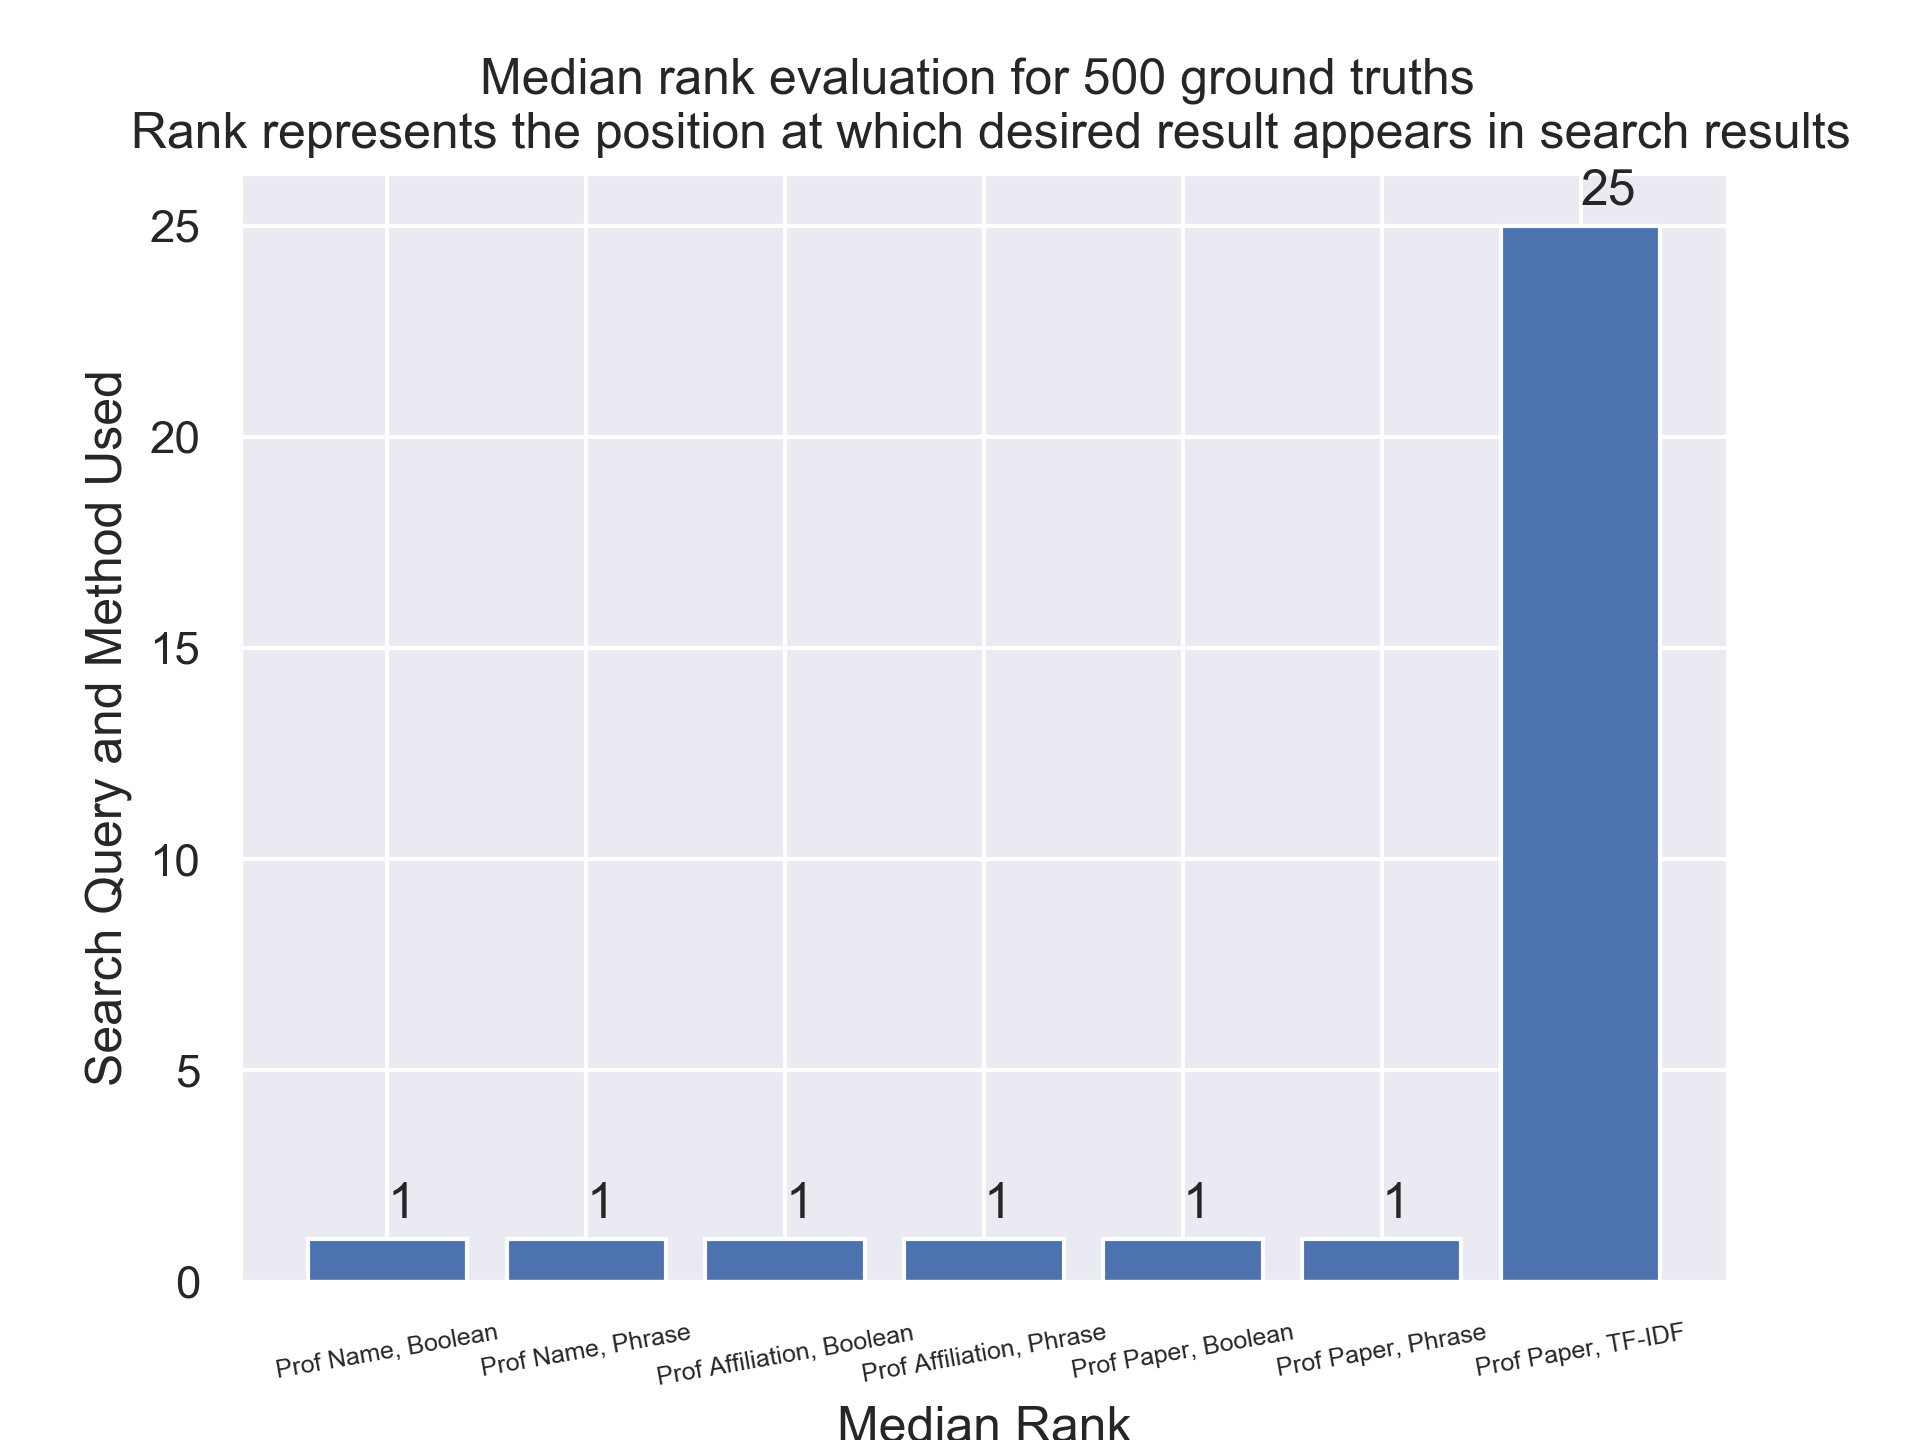
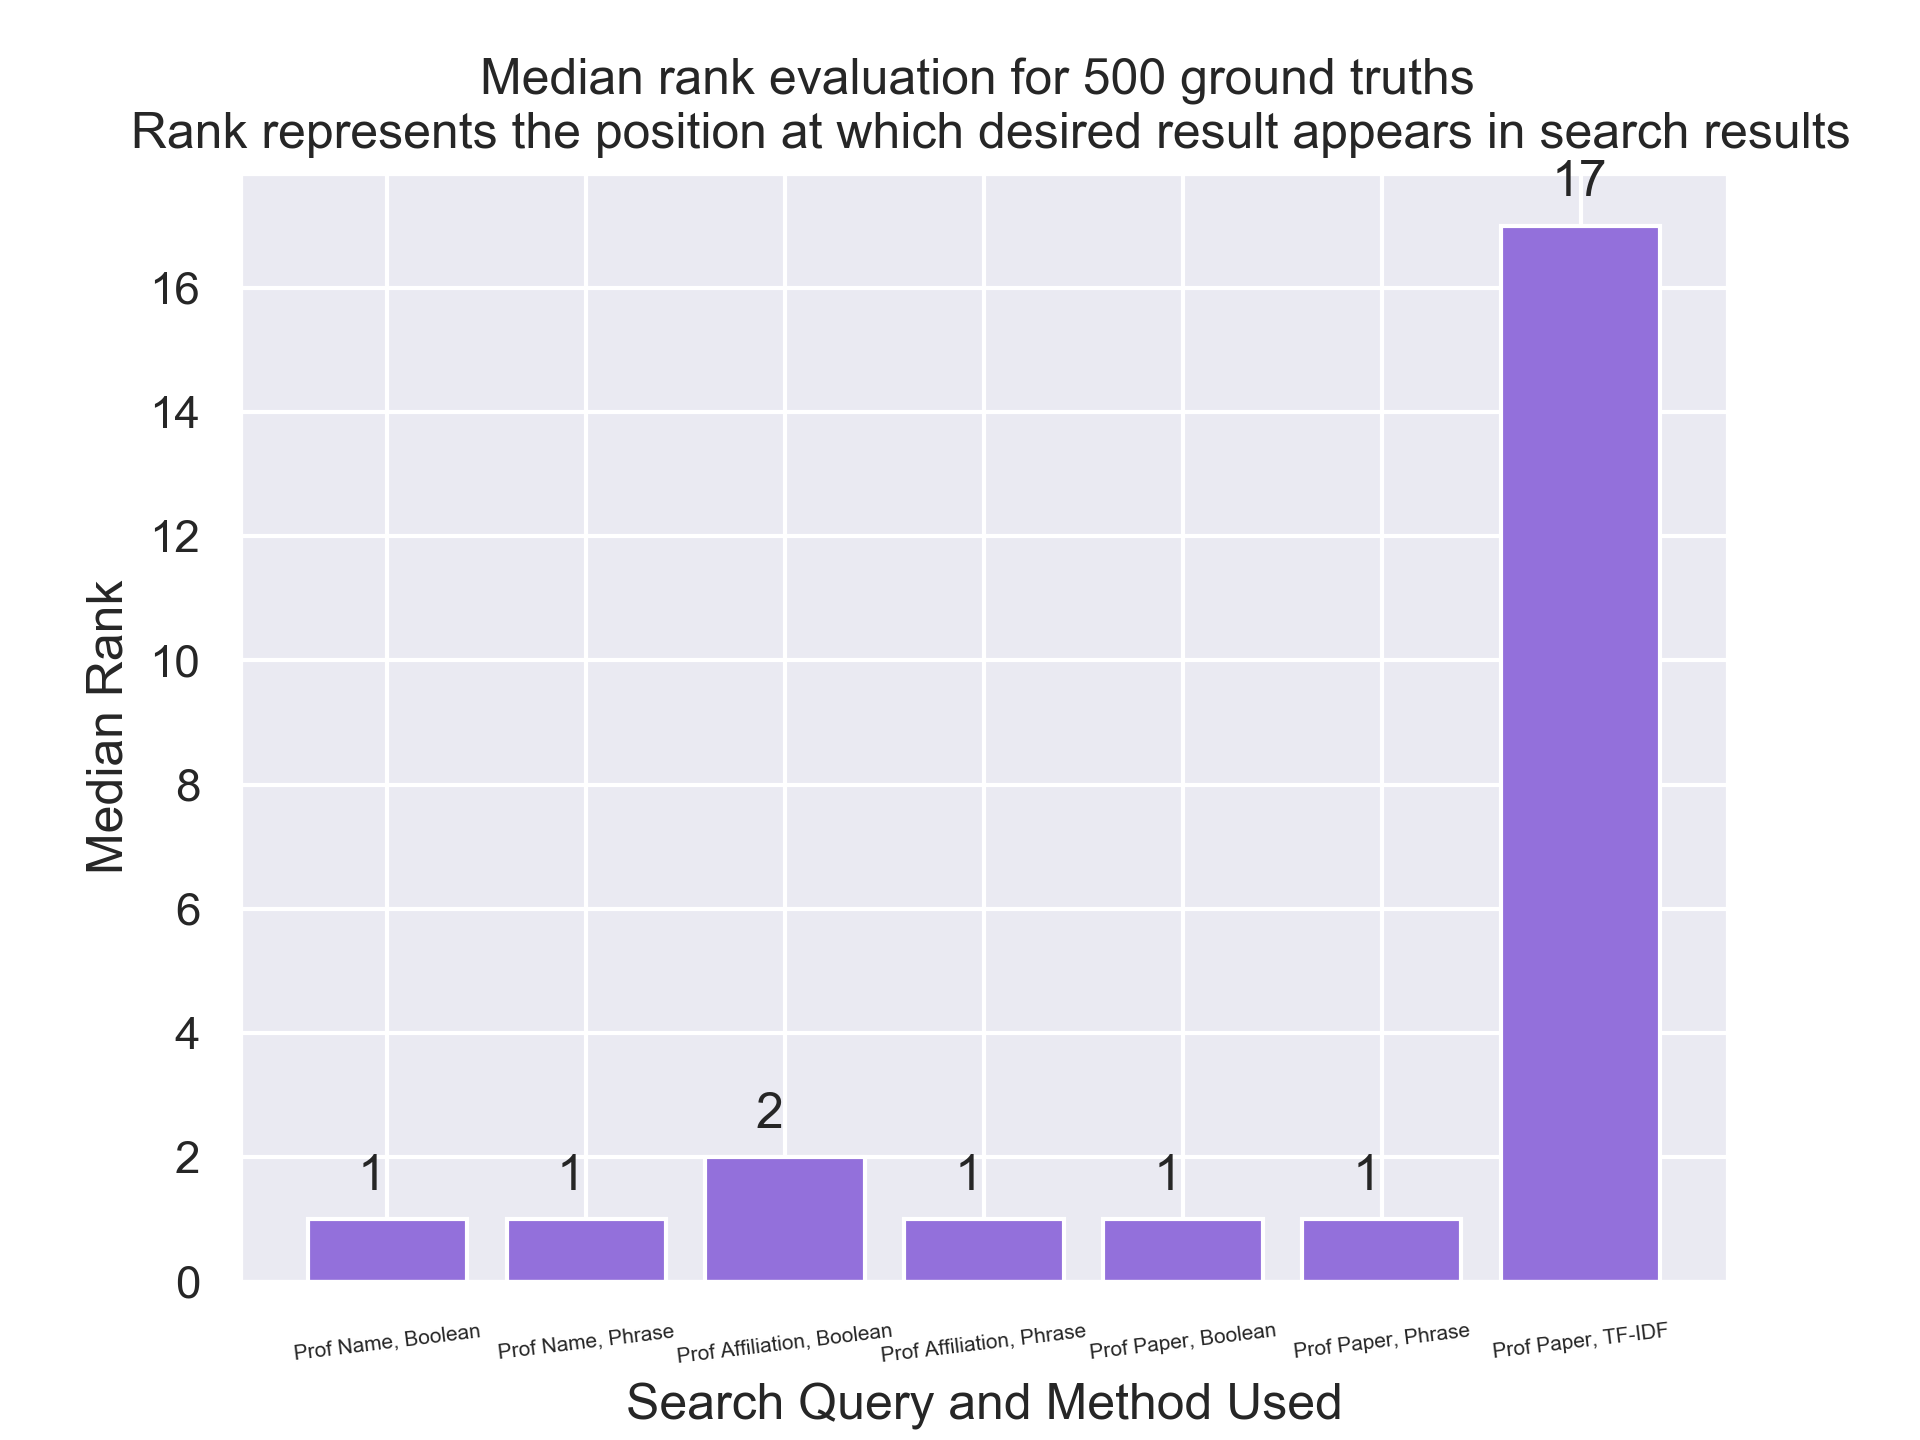
added evaluation results

diff --git a/web_server/templates/index.html b/web_server/templates/index.html
@@ -10,7 +10,7 @@
     <title>Search Engine</title>    
     <script src="https://cdn.jsdelivr.net/npm/chart.js"></script>   
   </head>
-  <body style="background-color: #F8F9FA;font-size:12pt;font-family: 'Open Sans', sans-serif;">
+  <body style="background-color: #EFF5FF;font-size:12pt;font-family: 'Open Sans', sans-serif;">
     <form class="form-inline" style="">
         <nav class="navbar fixed-top navbar-light bg-dark">        
             <div class="container" style="margin-top:7px;margin-bottom:7px;">
@@ -28,7 +28,7 @@
                                       </select>                                      
                                 </div>
                                 <div class="col-md-3" style="padding:0;">
-                                    <button type="submit" class="btn btn-primary" style="width:100%;border-radius:0px 10px 10px 0px;"> <i class="fa fa-search"></i> Search</button>
+                                    <button type="submit" class="btn btn-primary" style="background-color:#9370DB;width:100%;border-radius:0px 10px 10px 0px;"> <i class="fa fa-search"></i> Search</button>
                                 </div>
                             </div>                         
                     </div>                    

diff --git a/evaluation/evaluate.py b/evaluation/evaluate.py
@@ -41,6 +41,15 @@ recallrate['prof-paper-phrase-retrieval-recall-rate-10']  = 0
 recallrate['prof-paper-tf-idf-recall-rate-5']  = 0
 recallrate['prof-paper-tf-idf-recall-rate-10']  = 0
 
+avgquerytime = dict()
+avgquerytime['prof-name-boolean-retrieval'] = []
+avgquerytime['prof-affiliation-boolean-retrieval'] = []
+avgquerytime['prof-name-phrase-retrieval'] = []
+avgquerytime['prof-affiliation-phrase-retrieval'] = []
+avgquerytime['prof-paper-boolean-retrieval'] = []
+avgquerytime['prof-paper-phrase-retrieval'] = []
+avgquerytime['prof-paper-tf-idf'] = []
+
 file_count = 10
 data_files = [pd.read_csv('../data/professor_data-'+str(file_index)+'-cleaned.csv',header=None,encoding='utf8') for file_index in range(file_count) ]
 
@@ -54,6 +63,12 @@ def find_median(input_list):
         return input_list[0]
     else:
         return input_list[(N + 1)//2]
+
+def find_mean(input_list):
+    N = len(input_list)
+    if N==0:
+        return -1
+    return (sum(input_list)/N)
 
 def generate_random_professor():
     list_of_prof_count_per_file = list(pd.read_csv('../data/metadata.csv', header=None)[0])
@@ -137,7 +152,8 @@ for i in tqdm(range(number_of_professors_to_test)):
     rank_obtained = find_rank_in_list(query_result_prof_ids, ground_truth_prof_id) 
     recallrate['prof-name-boolean-retrieval-recall-rate-5']+=find_recall_rate(query_result_prof_ids, ground_truth_prof_id, 5)
     recallrate['prof-name-boolean-retrieval-recall-rate-10']+=find_recall_rate(query_result_prof_ids, ground_truth_prof_id, 10)
-    ranks['prof-name-boolean-retrieval'].append(rank_obtained)    
+    ranks['prof-name-boolean-retrieval'].append(rank_obtained)
+    avgquerytime['prof-name-boolean-retrieval'].append(time_taken*1000)    
 
     # Using affiliation as search query and boolean retrieval as search method
     search_query = prof_data['affiliation']
@@ -147,6 +163,7 @@ for i in tqdm(range(number_of_professors_to_test)):
     recallrate['prof-affiliation-boolean-retrieval-recall-rate-5']+=find_recall_rate(query_result_prof_ids, ground_truth_prof_id, 5)
     recallrate['prof-affiliation-boolean-retrieval-recall-rate-10']+=find_recall_rate(query_result_prof_ids, ground_truth_prof_id, 10)
     ranks['prof-affiliation-boolean-retrieval'].append(rank_obtained)
+    avgquerytime['prof-affiliation-boolean-retrieval'].append(time_taken*1000)
 
     # Using name as search query and phrase retrieval as search method    
     search_query = prof_data['name']
@@ -156,6 +173,7 @@ for i in tqdm(range(number_of_professors_to_test)):
     recallrate['prof-name-phrase-retrieval-recall-rate-5']+=find_recall_rate(query_result_prof_ids, ground_truth_prof_id, 5)
     recallrate['prof-name-phrase-retrieval-recall-rate-10']+=find_recall_rate(query_result_prof_ids, ground_truth_prof_id, 10)        
     ranks['prof-name-phrase-retrieval'].append(rank_obtained)
+    avgquerytime['prof-name-phrase-retrieval'].append(time_taken*1000)
 
     # Using affiliation as search query and phrase retrieval as search method  
     search_query = prof_data['affiliation']
@@ -165,6 +183,7 @@ for i in tqdm(range(number_of_professors_to_test)):
     recallrate['prof-affiliation-phrase-retrieval-recall-rate-5']+=find_recall_rate(query_result_prof_ids, ground_truth_prof_id, 5)
     recallrate['prof-affiliation-phrase-retrieval-recall-rate-10']+=find_recall_rate(query_result_prof_ids, ground_truth_prof_id, 10)        
     ranks['prof-affiliation-phrase-retrieval'].append(rank_obtained)
+    avgquerytime['prof-affiliation-phrase-retrieval'].append(time_taken*1000)
     
     # Using paper title as search query and boolean retrieval as search method
     search_query = prof_data['papers_title_list'][random_paper_index]
@@ -174,6 +193,7 @@ for i in tqdm(range(number_of_professors_to_test)):
     recallrate['prof-paper-boolean-retrieval-recall-rate-5']+=find_recall_rate(query_result_prof_ids, ground_truth_prof_id, 5)
     recallrate['prof-paper-boolean-retrieval-recall-rate-10']+=find_recall_rate(query_result_prof_ids, ground_truth_prof_id, 10)         
     ranks['prof-paper-boolean-retrieval'].append(rank_obtained)
+    avgquerytime['prof-paper-boolean-retrieval'].append(time_taken*1000)
 
     # Using paper title as search query and phrase retrieval as search method
     search_query = prof_data['papers_title_list'][random_paper_index]
@@ -183,6 +203,7 @@ for i in tqdm(range(number_of_professors_to_test)):
     recallrate['prof-paper-phrase-retrieval-recall-rate-5']+=find_recall_rate(query_result_prof_ids, ground_truth_prof_id, 5)
     recallrate['prof-paper-phrase-retrieval-recall-rate-10']+=find_recall_rate(query_result_prof_ids, ground_truth_prof_id, 10)        
     ranks['prof-paper-phrase-retrieval'].append(rank_obtained)
+    avgquerytime['prof-paper-phrase-retrieval'].append(time_taken*1000)
 
     # Using paper title as search query and tf-idf as search method
     search_query = prof_data['papers_title_list'][random_paper_index]
@@ -192,23 +213,24 @@ for i in tqdm(range(number_of_professors_to_test)):
     recallrate['prof-paper-tf-idf-recall-rate-5']+=find_recall_rate(query_result_prof_ids, ground_truth_prof_id, 5)
     recallrate['prof-paper-tf-idf-recall-rate-10']+=find_recall_rate(query_result_prof_ids, ground_truth_prof_id, 10)           
     ranks['prof-paper-tf-idf'].append(rank_obtained)
+    avgquerytime['prof-paper-tf-idf'].append(time_taken*1000)
 
 
 for key in recallrate:
-    recallrate[key]=(recallrate[key]/count)*100
+    recallrate[key]=(recallrate[key]/count)*100    
 
 
 # Plotting the median rank
 query_and_method = ['Prof Name, Boolean', 'Prof Name, Phrase', 'Prof Affiliation, Boolean', 'Prof Affiliation, Phrase', 'Prof Paper, Boolean', 'Prof Paper, Phrase', 'Prof Paper, TF-IDF']
 ranks_value = [find_median(ranks['prof-name-boolean-retrieval']), find_median(ranks['prof-name-phrase-retrieval']), find_median(ranks['prof-affiliation-boolean-retrieval']), find_median(ranks['prof-affiliation-phrase-retrieval']), find_median(ranks['prof-paper-boolean-retrieval']), find_median(ranks['prof-paper-phrase-retrieval']), find_median(ranks['prof-paper-tf-idf'])]
 plt.figure(0)
-plt.bar(query_and_method, ranks_value)
-plt.xlabel('Median Rank')
+plt.bar(query_and_method, ranks_value, color="mediumpurple")
+plt.ylabel('Median Rank')
 plt.title('Median rank evaluation for '+str(number_of_professors_to_test)+' ground truths \n Rank represents the position at which desired result appears in search results')
-plt.ylabel('Search Query and Method Used')
-plt.xticks(fontsize=6,rotation=10)
-for index,data in enumerate(ranks_value):
-    plt.text(x=index,y=data+0.5,s=f"{data}",fontdict=dict(fontsize=12))
+plt.xlabel('Search Query and Method Used')
+plt.xticks(fontsize=5,rotation=7)
+for i, v in enumerate(ranks_value):
+    plt.annotate(str(v), xy=(i,v), xytext=(-7,7), textcoords='offset points')
 plt.savefig('median_rank.png', dpi=300)
 
 
@@ -222,10 +244,34 @@ recall_rate_10 = [recallrate['prof-name-boolean-retrieval-recall-rate-10'],recal
 x_1 = [2*i for i in range(len(recall_rate_5))]
 x_2 = [x + 2*width for x in x_1]
 plt.figure(1)
-plt.bar(x_1, recall_rate_5, color ='r', width = 0.5, edgecolor ='white', label ='Recall Rate @ 5')
-plt.bar(x_2, recall_rate_10, color ='b', width = 0.5, edgecolor ='white', label ='Recall Rate @ 10')
+plt.bar(x_1, recall_rate_5, color ='mediumpurple', width = 0.5, edgecolor ='white', label ='Recall Rate @ 5')
+plt.bar(x_2, recall_rate_10, color ='darkblue', width = 0.5, edgecolor ='white', label ='Recall Rate @ 10')
 plt.ylabel('Recall Rate')
 plt.title('Recall rate evaluation for '+str(number_of_professors_to_test)+' ground truths \n Recall rate (R@X) represents % of time desired results appeared in top X')
 plt.xlabel('Search Query and Method Used')
-plt.xticks([2*i + width for i in range(len(recall_rate_5))],query_and_method, fontsize=6, rotation=10)
+plt.xticks([2*i + width for i in range(len(recall_rate_5))],query_and_method, fontsize=5, rotation=7)
+plt.legend(['Recall Rate @ 5', 'Recall Rate @ 10'])
 plt.savefig('recall_rate.png', dpi=300)
+
+
+# Plotting the Average Query Time
+
+def get_time_in_ms(time_in_s):
+    value = str(time_in_s)
+    try:
+        value = value[:4]
+        return value+" ms"
+    except:
+        return value+" ms"
+
+query_and_method = ['Prof Name, Boolean', 'Prof Name, Phrase', 'Prof Affiliation, Boolean', 'Prof Affiliation, Phrase', 'Prof Paper, Boolean', 'Prof Paper, Phrase', 'Prof Paper, TF-IDF']
+avg_time_value = [find_mean(avgquerytime['prof-name-boolean-retrieval']), find_mean(avgquerytime['prof-name-phrase-retrieval']), find_mean(avgquerytime['prof-affiliation-boolean-retrieval']), find_mean(avgquerytime['prof-affiliation-phrase-retrieval']), find_mean(avgquerytime['prof-paper-boolean-retrieval']), find_mean(avgquerytime['prof-paper-phrase-retrieval']), find_mean(avgquerytime['prof-paper-tf-idf'])]
+plt.figure(2)
+plt.plot(query_and_method, avg_time_value, 'ro',color="mediumpurple")
+plt.ylabel('Average Query Time (in ms)')
+plt.title('Average query time for '+str(number_of_professors_to_test)+' searches')
+plt.xlabel('Search Query and Method Used')
+plt.xticks(fontsize=5,rotation=7)
+for i, v in enumerate(avg_time_value):
+    plt.annotate(get_time_in_ms(v), xy=(i,v), xytext=(-7,7), textcoords='offset points')
+plt.savefig('average_query_time.png', dpi=300)
